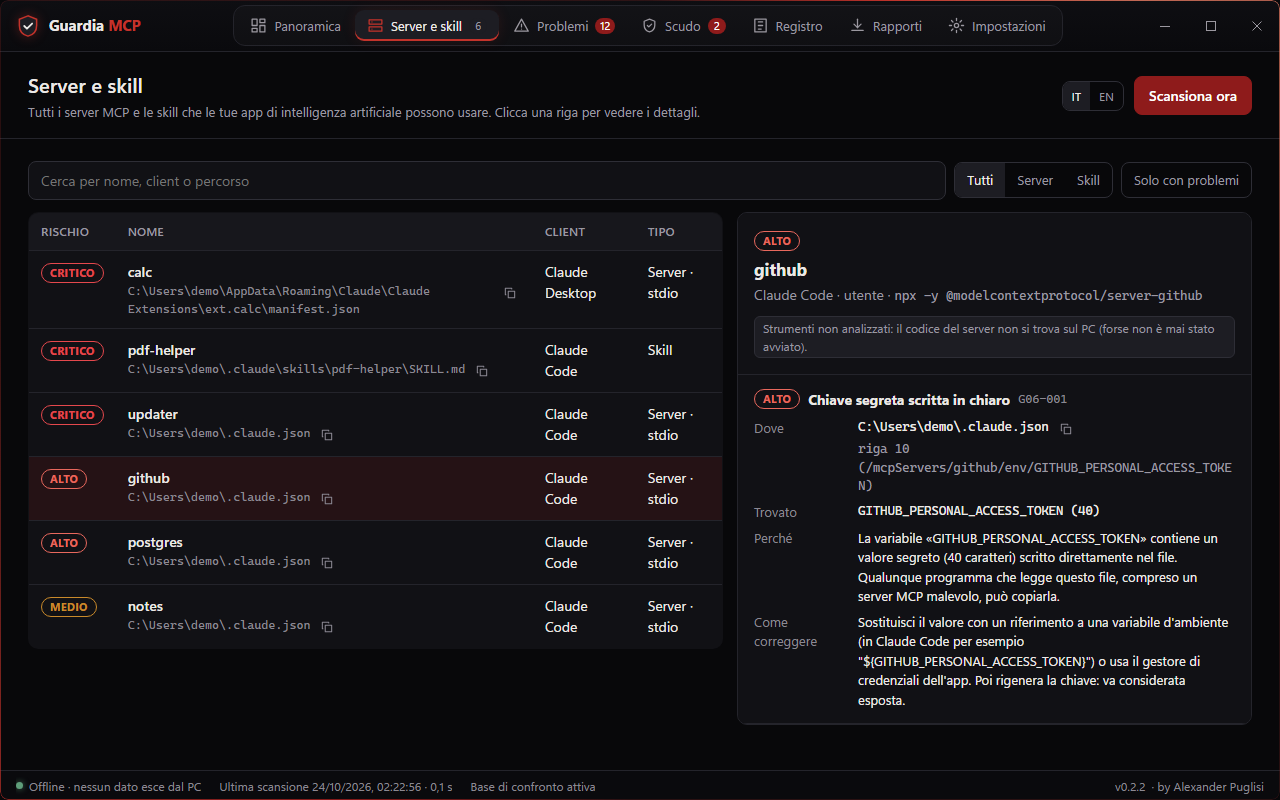
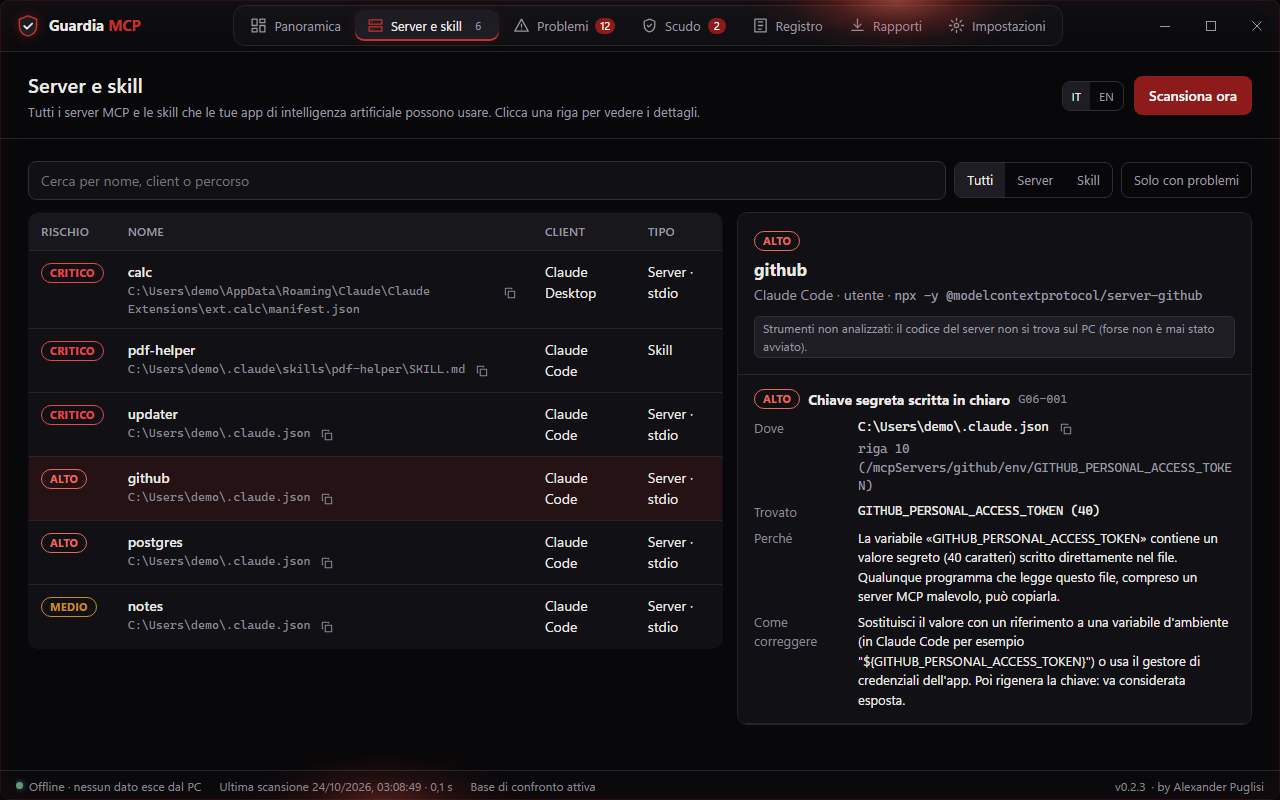
0.2.3: the glowing border works again, as a soft halo
In 0.2.2 the animated border was hidden whenever the window was
maximized, which is how the app opens, and otherwise it was a 1-pixel
line. It is now a soft red halo with two gentle lights travelling along
the edge on a CSS motion path, in every window state and in the
confirmation window. Settings turns it off; reduced motion keeps it
still. A test keeps it visible in every window state.

Docs, tutorial screenshots, demo GIFs and images updated for 0.2.3.

Changed region(s): [[0.625, 0.0, 0.7812, 0.0625], [0.25, 0.9688, 0.375, 1.0]]

diff --git a/src/guardia/app/web/app.css b/src/guardia/app/web/app.css
@@ -75,10 +75,12 @@ button, input, select { font: inherit; color: inherit; }
 .status-item:empty { display: none; }
 .dot { width: 7px; height: 7px; border-radius: 50%; background: var(--ok); box-shadow: 0 0 6px rgba(95, 158, 122, .7); flex: none; }
 
-.glow { position: absolute; inset: 0; border-radius: inherit; padding: 1px; pointer-events: none; z-index: 40; overflow: hidden; -webkit-mask: linear-gradient(#000 0 0) content-box, linear-gradient(#000 0 0); -webkit-mask-composite: xor; mask-composite: exclude; background: rgba(196, 51, 43, .18); }
-.glow i { position: absolute; left: 50%; top: 50%; width: 200vmax; height: 200vmax; margin: -100vmax 0 0 -100vmax; background: conic-gradient(from 0deg, transparent 0deg, rgba(196, 51, 43, .95) 30deg, rgba(255, 140, 110, .7) 50deg, transparent 95deg, transparent 180deg, rgba(142, 27, 27, .9) 215deg, rgba(196, 51, 43, .6) 240deg, transparent 280deg); animation: glow-spin 16s linear infinite; will-change: transform; }
-@keyframes glow-spin { to { transform: rotate(360deg); } }
-[data-glow="off"] .glow i, .maximized .glow { display: none; }
+.glow { position: absolute; inset: 0; border-radius: inherit; pointer-events: none; z-index: 40; overflow: hidden; box-shadow: inset 0 0 0 1px rgba(196, 51, 43, .14), inset 0 0 28px rgba(196, 51, 43, .08); }
+.glow i { position: absolute; top: 0; left: 0; width: 300px; height: 110px; border-radius: 50%; background: radial-gradient(closest-side, rgba(255, 108, 84, .5), rgba(214, 60, 46, .26) 42%, rgba(196, 51, 43, .08) 72%, rgba(196, 51, 43, 0)); offset-path: inset(0 round var(--window-radius)); offset-rotate: auto; offset-anchor: center; animation: glow-orbit 28s linear infinite; will-change: transform; }
+.glow i + i { opacity: .45; animation-delay: -14s; }
+.maximized .glow i { offset-path: inset(0); }
+@keyframes glow-orbit { from { offset-distance: 0%; } to { offset-distance: 100%; } }
+[data-glow="off"] .glow i { display: none; }
 
 .grip { position: fixed; z-index: 60; }
 .grip[data-edge="n"] { top: 0; left: 8px; right: 8px; height: 3px; cursor: ns-resize; }

diff --git a/src/guardia/app/web/confirm.css b/src/guardia/app/web/confirm.css
@@ -45,7 +45,8 @@ h2 { font-size: 12px; font-weight: 600; color: var(--faint); text-transform: upp
 .btn:hover { background: var(--surface-3); }
 .btn.primary { background: var(--accent); border-color: var(--accent); color: #fff; font-weight: 600; }
 .btn.primary:hover { background: var(--accent-hover); box-shadow: 0 0 16px rgba(196, 51, 43, .35); }
-.glow { position: absolute; inset: 0; border-radius: inherit; padding: 1px; pointer-events: none; overflow: hidden; -webkit-mask: linear-gradient(#000 0 0) content-box, linear-gradient(#000 0 0); -webkit-mask-composite: xor; mask-composite: exclude; background: rgba(196, 51, 43, .25); }
-.glow i { position: absolute; left: 50%; top: 50%; width: 200vmax; height: 200vmax; margin: -100vmax 0 0 -100vmax; background: conic-gradient(from 0deg, transparent 0deg, rgba(196, 51, 43, .95) 40deg, rgba(255, 140, 110, .7) 60deg, transparent 110deg, transparent 200deg, rgba(142, 27, 27, .9) 240deg, transparent 290deg); animation: spin 10s linear infinite; }
-@keyframes spin { to { transform: rotate(360deg); } }
+.glow { position: absolute; inset: 0; border-radius: inherit; pointer-events: none; overflow: hidden; box-shadow: inset 0 0 0 1px rgba(196, 51, 43, .16), inset 0 0 22px rgba(196, 51, 43, .09); }
+.glow i { position: absolute; top: 0; left: 0; width: 200px; height: 80px; border-radius: 50%; background: radial-gradient(closest-side, rgba(255, 108, 84, .5), rgba(214, 60, 46, .26) 42%, rgba(196, 51, 43, .08) 72%, rgba(196, 51, 43, 0)); offset-path: inset(0 round 8px); offset-rotate: auto; offset-anchor: center; animation: glow-orbit 18s linear infinite; will-change: transform; }
+.glow i + i { opacity: .45; animation-delay: -9s; }
+@keyframes glow-orbit { from { offset-distance: 0%; } to { offset-distance: 100%; } }
 @media (prefers-reduced-motion: reduce) { .glow i { animation: none; } * { transition: none !important; } }

diff --git a/scripts/demo_stub.js b/scripts/demo_stub.js
@@ -52,7 +52,7 @@
       shield_rules_template: async () => ({ text: DEMO.rules_text }),
       window_minimize: async () => null,
       window_close: async () => null,
-      window_state: async () => ({ maximized: false }),
+      window_state: async () => ({ maximized: detail === "max" }),
       window_maximize: async () => null,
       window_restore: async () => null,
       settings_history: async () => ({ items: DEMO.history || [] }),

diff --git a/src/guardia/app/web/index.html b/src/guardia/app/web/index.html
@@ -43,7 +43,7 @@
     <span class="spacer"></span>
     <span class="status-item"><span id="version"></span> · by Alexander Puglisi</span>
   </footer>
-  <div class="glow" aria-hidden="true"><i></i></div>
+  <div class="glow" aria-hidden="true"><i></i><i></i></div>
 </div>
 <div class="grip" data-edge="n"></div><div class="grip" data-edge="s"></div>
 <div class="grip" data-edge="e"></div><div class="grip" data-edge="w"></div>

diff --git a/src/guardia/app/web/confirm.html b/src/guardia/app/web/confirm.html
@@ -34,7 +34,7 @@
     <button type="button" class="btn" id="allow"></button>
     <button type="button" class="btn primary" id="block"></button>
   </footer>
-  <div class="glow" aria-hidden="true"><i></i></div>
+  <div class="glow" aria-hidden="true"><i></i><i></i></div>
 </div>
 <script>/*SCRIPT*/</script>
 </body>

diff --git a/tests/test_ui_polish.py b/tests/test_ui_polish.py
@@ -42,6 +42,33 @@ def test_confirm_window_says_what_is_remembered() -> None:
         assert messages["confirm.remember_method"] != messages["confirm.remember"]
 
 
+def css_rules(css: str, selector: str) -> list[str]:
+    return [
+        body
+        for selectors, body in re.findall(r"([^{}]+)\{([^{}]*)\}", css)
+        if selector in [part.strip() for part in selectors.split(",")]
+    ]
+
+
+def test_glow_travels_along_the_edge_in_every_window_state() -> None:
+    for name in ("app.css", "confirm.css"):
+        css = (WEB / name).read_text(encoding="utf-8")
+        light = " ".join(css_rules(css, ".glow i"))
+        assert "offset-path: inset(" in light, name
+        assert "animation: glow-orbit" in light, name
+        assert "display: none" not in light, name
+        keyframes = re.search(r"@keyframes glow-orbit \{(.*?)\}\s*\}", css, re.DOTALL)
+        assert keyframes is not None, name
+        assert "offset-distance: 0%" in keyframes.group(1)
+        assert "offset-distance: 100%" in keyframes.group(1)
+    css = (WEB / "app.css").read_text(encoding="utf-8")
+    assert all("display: none" not in body for body in css_rules(css, ".maximized .glow"))
+    assert all("display: none" not in body for body in css_rules(css, ".maximized .glow i"))
+    assert "display: none" in " ".join(css_rules(css, '[data-glow="off"] .glow i'))
+    page = build_page()
+    assert page.count('<div class="glow" aria-hidden="true"><i></i><i></i></div>') == 1
+
+
 def test_page_explains_a_program_that_does_not_answer() -> None:
     page = build_page()
     assert 'id="boot"' in page

diff --git a/scripts/make_social.py b/scripts/make_social.py
@@ -48,7 +48,7 @@ def build() -> Image.Image:
     draw.text((476, 400), "Scanner · Real-time Shield · Signed ledger", font=small, fill=MUTED)
     rows = (
         ("OPEN SOURCE", "100% OFFLINE", "NO TELEMETRY"),
-        ("845 TESTS", "REVIEWED FROM SCRATCH", "APACHE 2.0"),
+        ("846 TESTS", "REVIEWED FROM SCRATCH", "APACHE 2.0"),
     )
     label = font("segoeuib.ttf", 17)
     for index, row in enumerate(rows):

diff --git a/src/guardia/__init__.py b/src/guardia/__init__.py
@@ -1,1 +1,1 @@
-__version__ = "0.2.2"
+__version__ = "0.2.3"

diff --git a/TESTING.md b/TESTING.md
@@ -7,14 +7,14 @@
 ## English
 
 A security tool is only worth what its tests prove. This page lists what was actually run on
-version 0.2.2, how, and what is **not** covered. Nothing here was run against real malware or
+version 0.2.3, how, and what is **not** covered. Nothing here was run against real malware or
 anyone else's systems: every "attack" is a fake server or fake file written for the purpose.
 
 ### In numbers
 
 | | |
 |---|---|
-| Automated tests | **845**, all passing (`uv run pytest`) |
+| Automated tests | **846**, all passing (`uv run pytest`) |
 | Test files | 35 |
 | Fake samples (configurations, servers, code, skills) | 84 files in `tests/corpus/` |
 | Static rules, each with at least one malicious and one harmless fake case | 90 |
@@ -54,7 +54,7 @@ anyone else's systems: every "attack" is a fake server or fake file written for 
   a normal call passed, an attempt to read an SSH key was blocked, and the confirmation window
   opened from the executable and returned the answer. The command line gave the same results as the
   Python version on a real PC (read only).
-- **Windows executables of 0.2.2.** Built without the development tools. The release zip was
+- **Windows executables of 0.2.3.** Built without the development tools. The release zip was
   extracted and every file marked as downloaded from the Internet, as Windows does. From there,
   on a fake user folder: the command line scanned, the Shield protected a fake server and passed
   a request through the protected entry, the confirmation window opened and blocked by itself at
@@ -127,6 +127,12 @@ marking every file of the release zip the same way, fixed in 0.2.1 with a `.exe.
 each program, and checked again: with the fix both the app and the confirmation window open, without
 it the same error comes back. A test keeps the configuration in the build.
 
+In version 0.2.2 the animated glowing border never appeared with the window maximized, which is
+how the app opens since that version, and when the window was smaller it was only a 1-pixel line.
+Version 0.2.3 replaces it with a soft red halo that travels along the edge in every window state.
+It was checked on the real app, with pictures of the window a few seconds apart, and a test keeps
+it visible.
+
 ### Not covered
 
 - **macOS and Linux**: the code paths exist, but they were not tried on real machines.
@@ -149,14 +155,14 @@ uv run mypy
 ## Italiano
 
 Uno strumento di sicurezza vale quanto dimostrano i suoi test. Qui c'è cosa è stato eseguito
-davvero sulla versione 0.2.2, come, e cosa **non** è coperto. Niente è stato provato con malware
+davvero sulla versione 0.2.3, come, e cosa **non** è coperto. Niente è stato provato con malware
 vero o su sistemi di altri: ogni «attacco» è un server finto o un file finto scritto apposta.
 
 ### In numeri
 
 | | |
 |---|---|
-| Test automatici | **845**, tutti passati (`uv run pytest`) |
+| Test automatici | **846**, tutti passati (`uv run pytest`) |
 | File di test | 35 |
 | Esempi finti (configurazioni, server, codice, skill) | 84 file in `tests/corpus/` |
 | Regole statiche, ognuna con almeno un caso finto malevolo e uno innocuo | 90 |
@@ -198,7 +204,7 @@ vero o su sistemi di altri: ogni «attacco» è un server finto o un file finto 
   2026-07-28, una chiamata normale passata, un tentativo di leggere una chiave SSH bloccato, e la
   finestra di conferma aperta dall'eseguibile che ha restituito la risposta. La riga di comando ha
   dato gli stessi risultati della versione Python su un PC reale, in sola lettura.
-- **Eseguibili Windows della 0.2.2.** Costruiti senza gli strumenti di sviluppo. Lo zip della
+- **Eseguibili Windows della 0.2.3.** Costruiti senza gli strumenti di sviluppo. Lo zip della
   versione è stato estratto e ogni file segnato come scaricato da Internet, come fa Windows. Da
   lì, su una cartella utente finta: la riga di comando ha fatto la scansione, lo Scudo ha protetto
   un server finto e ha fatto passare una richiesta dalla voce protetta, la finestra di conferma si
@@ -281,6 +287,12 @@ Il problema è stato riprodotto qui segnando allo stesso modo ogni file dello zi
 0.2.1 con un file `.exe.config` accanto a ogni programma, e ricontrollato: con la correzione si aprono
 sia l'app sia la finestra di conferma, senza torna lo stesso errore. Un test tiene la
 configurazione nella build.
+
+Nella versione 0.2.2 il bordo luminoso animato non compariva mai con la finestra ingrandita, che
+da quella versione è il modo in cui l'app si apre, e con la finestra più piccola era solo una linea
+di un pixel. La versione 0.2.3 lo sostituisce con un alone rosso morbido che scorre lungo il bordo
+in ogni stato della finestra. È stato controllato sull'app vera, con foto della finestra a pochi
+secondi di distanza, e un test lo tiene visibile.
 
 ### Non coperto
 

diff --git a/README.md b/README.md
@@ -40,7 +40,7 @@ asks you first.
 <sub>The demo runs on a fake PC made of fake servers and skills written for the purpose
 (`scripts/demo.py`): no real data, no real secrets.</sub>
 
-**Status: version 0.2.2 — v1 (static analysis) and v2 (real-time Shield for local stdio servers).**
+**Status: version 0.2.3 — v1 (static analysis) and v2 (real-time Shield for local stdio servers).**
 
 - `guardia inventory` — finds the MCP servers and skills configured on this PC in the supported apps
   (Claude Desktop, Claude Code, Cursor, VS Code, Windsurf, Gemini CLI, Codex, Copilot CLI) and lists
@@ -122,7 +122,7 @@ Full guide: [docs/SHIELD.md](docs/SHIELD.md).
 
 Prefer pictures? Follow the [step-by-step guide with screenshots](docs/GUIDE.md).
 
-1. **Download** `GuardiaMCP-0.2.2-windows-x64.zip` and `SHA256SUMS.txt` from the project's
+1. **Download** `GuardiaMCP-0.2.3-windows-x64.zip` and `SHA256SUMS.txt` from the project's
    [**Releases**](https://github.com/AlexanderPuglisi/guardia-mcp/releases/latest) page on GitHub
    and check the zip: the [guide](docs/GUIDE.md#1-download-and-check) has two PowerShell lines to
    paste, which must print `True`.
@@ -289,7 +289,7 @@ conferma.
 <sub>La demo gira su un PC finto, fatto di server e skill finti scritti apposta
 (`scripts/demo.py`): nessun dato vero, nessun segreto vero.</sub>
 
-**Stato: versione 0.2.2 — v1 (analisi statica) e v2 (Scudo in tempo reale per i server locali stdio).**
+**Stato: versione 0.2.3 — v1 (analisi statica) e v2 (Scudo in tempo reale per i server locali stdio).**
 
 - `guardia inventario` — trova i server MCP e le skill configurati sul PC nelle app supportate
   (Claude Desktop, Claude Code, Cursor, VS Code, Windsurf, Gemini CLI, Codex, Copilot CLI) e li
@@ -379,7 +379,7 @@ Vuoi capire MCP da zero? Leggi [docs/IMPARA-MCP.md](docs/IMPARA-MCP.md).
 
 Preferisci le foto? Segui la [guida passo passo con le schermate](docs/GUIDA.md).
 
-1. **Scarica** `GuardiaMCP-0.2.2-windows-x64.zip` e `SHA256SUMS.txt` dalla pagina
+1. **Scarica** `GuardiaMCP-0.2.3-windows-x64.zip` e `SHA256SUMS.txt` dalla pagina
    [**Releases**](https://github.com/AlexanderPuglisi/guardia-mcp/releases/latest) del progetto su
    GitHub e controlla lo zip: nella [guida](docs/GUIDA.md#1-scarica-e-controlla) ci sono due righe
    da incollare in PowerShell, che devono stampare `True`.

diff --git a/docs/GUIDE.md b/docs/GUIDE.md
@@ -13,13 +13,13 @@ No programming needed. You need Windows (tested on Windows 11) and five minutes.
 ## 1. Download and check
 
 1. Open the [**Releases**](https://github.com/AlexanderPuglisi/guardia-mcp/releases/latest) page and
-   download two files: `GuardiaMCP-0.2.2-windows-x64.zip` and `SHA256SUMS.txt`.
+   download two files: `GuardiaMCP-0.2.3-windows-x64.zip` and `SHA256SUMS.txt`.
 2. Check that the zip is the right one. Open **PowerShell** (Start menu → type `PowerShell` →
    Enter), paste these two lines and press Enter:
 
    ```powershell
    $sum = ((Get-Content "$env:USERPROFILE\Downloads\SHA256SUMS.txt" | Select-String 'windows-x64.zip').Line -split '\s+')[0]
-   (Get-FileHash "$env:USERPROFILE\Downloads\GuardiaMCP-0.2.2-windows-x64.zip").Hash -eq $sum
+   (Get-FileHash "$env:USERPROFILE\Downloads\GuardiaMCP-0.2.3-windows-x64.zip").Hash -eq $sum
    ```
 
    It must print **True**. If it prints `False`, do not open the zip: download it again.

diff --git a/docs/GUIDA.md b/docs/GUIDA.md
@@ -13,13 +13,13 @@ Non serve saper programmare. Ti servono Windows (provato su Windows 11) e cinque
 ## 1. Scarica e controlla
 
 1. Apri la pagina [**Releases**](https://github.com/AlexanderPuglisi/guardia-mcp/releases/latest) e
-   scarica due file: `GuardiaMCP-0.2.2-windows-x64.zip` e `SHA256SUMS.txt`.
+   scarica due file: `GuardiaMCP-0.2.3-windows-x64.zip` e `SHA256SUMS.txt`.
 2. Controlla che lo zip sia quello giusto. Apri **PowerShell** (menu Start → scrivi `PowerShell` →
    Invio), incolla queste due righe e premi Invio:
 
    ```powershell
    $sum = ((Get-Content "$env:USERPROFILE\Downloads\SHA256SUMS.txt" | Select-String 'windows-x64.zip').Line -split '\s+')[0]
-   (Get-FileHash "$env:USERPROFILE\Downloads\GuardiaMCP-0.2.2-windows-x64.zip").Hash -eq $sum
+   (Get-FileHash "$env:USERPROFILE\Downloads\GuardiaMCP-0.2.3-windows-x64.zip").Hash -eq $sum
    ```
 
    Deve comparire **True**. Se compare `False`, non aprire lo zip: scaricalo di nuovo.
